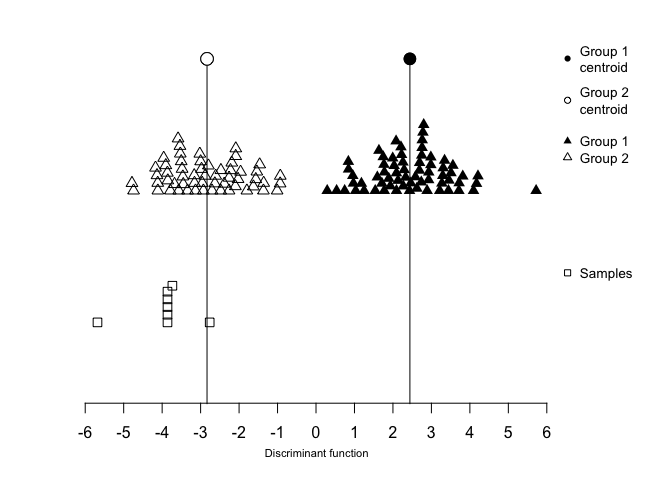
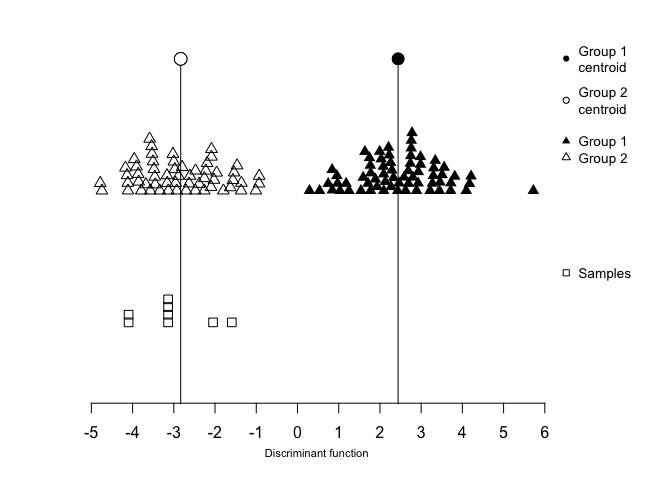
update url

diff --git a/README.md b/README.md
@@ -31,9 +31,7 @@ Stroud et al. (2023).
 
 **Package citation**: Stroud, E., (2023) WeedEco: Classification of
 unknown cases using linear discriminant analysis to understand farming
-regimes. R package version 0.1.0,
-\<\[<a href="https://github.com/\" class="uri">https://github.com/\\</a>\](<a href="https://github.com/)%7B.uri%7D"
-class="uri">https://github.com/\</a>\>.
+regimes. R package version 0.1.0, <https://github.com/WeedEco/WeedEco>
 
 **Functional trait database**: \<ORA link\>
 
@@ -71,7 +69,7 @@ with:
 
 ``` r
 # install.packages("devtools")
-devtools::install_github("elizabethastroud/FIBS-R-Package")
+devtools::install_github("WeedEco/WeedEco")
 ```
 
 ## Example
@@ -104,15 +102,15 @@ FLOWPER<-sample(3:9, 6, replace=T)
 x<-data.frame(Four_three_code,FLOWPER) 
 ## Data organisation - function used to organise archaeobotncial or survey data for LDA analysis
 results<-wdata_org(dataset, samples=3, codes=2, codename="Four_three_code", model=1, fl_pr=x)
-#>              SLA   ARNODE LOGCANH LOGCAND  FLOWPER
-#> s.1246  23.78448 12008.42     5.5     5.5 5.333333
-#> s.46178 23.78448 12008.42     5.5     5.5 5.333333
-#> s.1     23.78448 12008.42     5.5     5.5 5.333333
-#> s.23    23.12871 14241.86     5.6     5.4 5.600000
-#> s.987   23.78448 12008.42     5.5     5.5 5.333333
-#> s.11    23.78448 12008.42     5.5     5.5 5.333333
-#> s.244   18.10187 25830.79     6.0     6.0 3.000000
-#> s.872   18.54500 43624.62     6.0     7.0 3.000000
+#>              SLA    ARNODE  LOGCANH LOGCAND  FLOWPER
+#> s.1246  23.78448 12008.417 5.500000    5.50 6.333333
+#> s.46178 23.78448 12008.417 5.500000    5.50 6.333333
+#> s.1     23.78448 12008.417 5.500000    5.50 6.333333
+#> s.23    24.50975  3949.456 5.500000    5.25 5.750000
+#> s.987   23.78448 12008.417 5.500000    5.50 6.333333
+#> s.11    25.00962 12802.710 5.400000    5.60 7.000000
+#> s.244   24.50975  3949.456 5.500000    5.25 5.750000
+#> s.872   23.91040 19031.292 5.333333    6.00 7.333333
 ```
 
 ``` r
@@ -121,14 +119,14 @@ LDA<-wmodel.LDA(results, model = 1)
 #> 
 #> Results and linear discriminant scores:
 #>         CLASS_std* Prob.1_std* Prob.2_std*   LD1*
-#> s.1246           2           0           1 -3.861
-#> s.46178          2           0           1 -3.861
-#> s.1              2           0           1 -3.861
-#> s.23             2           0           1 -3.734
-#> s.987            2           0           1 -3.861
-#> s.11             2           0           1 -3.861
-#> s.244            2           0           1 -5.681
-#> s.872            2           0           1 -2.764
+#> s.1246           2       0.000       1.000 -3.139
+#> s.46178          2       0.000       1.000 -3.139
+#> s.1              2       0.000       1.000 -3.139
+#> s.23             2       0.000       1.000 -4.097
+#> s.987            2       0.000       1.000 -3.139
+#> s.11             2       0.000       1.000 -2.048
+#> s.244            2       0.000       1.000 -4.097
+#> s.872            2       0.001       0.999 -1.593
 #> 
 #> Centroids:
 #>   Group Centroid1
